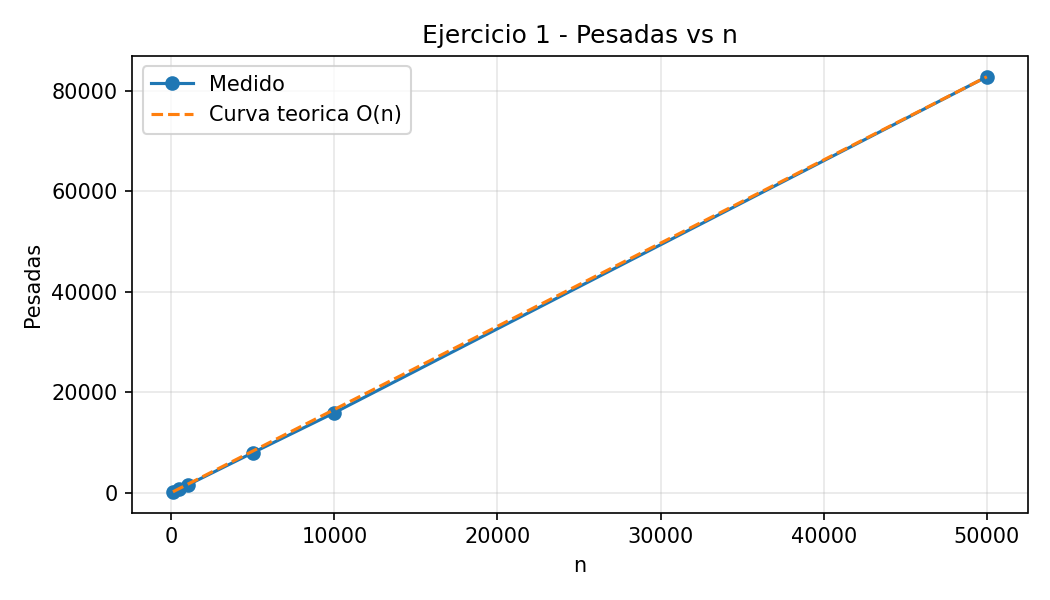
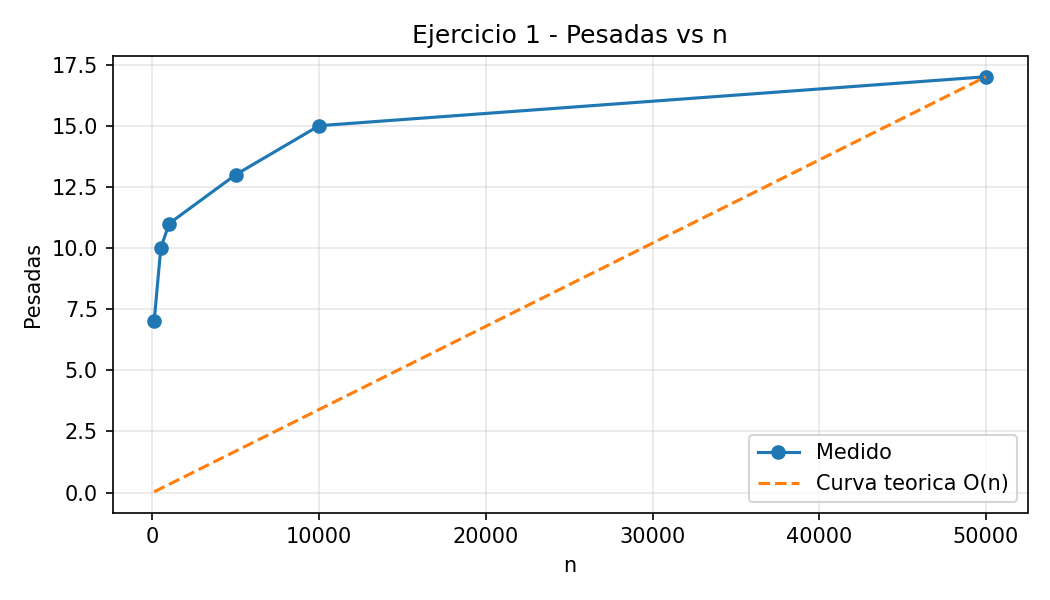
reemplazo codigo por pseudo, corrijo ej1 en informe

diff --git a/informe/tex/dyc/solucion.tex b/informe/tex/dyc/solucion.tex
@@ -3,26 +3,36 @@
 \subsection{Problema a resolver}
 
 Se tiene una bolsa con $n$ monedas de igual denominación, de las cuales exactamente una es falsa y es más liviana que el resto. 
-El objetivo es identificar la moneda falsa sin ordenar por peso y usando División y Conquista.
+El objetivo es identificar la moneda falsa sin ordenar por peso y haciendo uso de División y Conquista.
 
 \subsection{Algoritmo de División y Conquista}
 
 La entrada del algoritmo es una lista de monedas representadas por su peso. Se asume que todos los pesos son iguales, a
-excepción del peso de la moneda falsa.
+excepción del peso de la moneda falsa, es decir: $[a, b, b, b, b, b, b]$
 
-El algoritmo divide la lista en dos. En cada paso compara las monedas de las posiciones centrales:
+En cada paso el algoritmo parte entrada en dos (a la lista) y calcula el promedio de cada parte.
 
 \begin{enumerate}
-	\item Si las dos monedas centrales son distintas, la más liviana es la falsa.
-	\item Si son iguales, se llama recursivamente a las dos partes y se repite el algoritmo.
+	\item Si el promedio izquierdo es menor al promedio derecho se vuelve a llamar al algoritmo pero usando a la parte
+	izquierda lista.
+	\item Si el promedio derecho es menor al promedio izquierdo se vuelve a llamar al algoritmo pero usando a la parte
+	derecha lista
 \end{enumerate}
 
-La cantidad de pesadas se contabiliza con cada comparación entre dos monedas, representando la cantidad de veces que se pesan
-dos monedas hasta conseguir la falsa.
+- Casos base:
 
-El código del algoritmo implementado para resolver el problema es:
+1. Si la lista es de longitud uno, se retorna como moneda a su único elemento.
 
-\lstinputlisting[language=Python]{code/monedas_dyc.py}
+2. Si la lista es de longitud dos se debe devolver la moneda de menor pesos entre los dos elementos.
+
+- Pesadas en el algoritmo:
+
+Las pesadas son las veces que se pesan monedas para encontrar a la moneda falsa. En el algoritmo se pesan las monedas cada
+vez que se calculan los promedios de cada una de las partes, y cuando la longitud de la lista de monedas es uno o dos.
+
+- Solución:
+
+\lstinputlisting[]{code/monedas.txt}
 
 \subsection{Complejidad temporal y cantidad de pesadas}
 
@@ -31,12 +41,13 @@ recurrencia del mismo:
 
 $T(n) = A.T(n/B) + O(n^{C})$
 
-Donde, $A = 2$ debido a que se hacen dos llamadas recursivas en cada paso, $B = 2$ porque en cada paso el algoritmo parte el
-problema en dos, y $C = 0$ porque los costos adicionales incurridos en cada paso son $O(1)$.
+Donde, $A = 1$ debido a que se hacen dos llamadas recursivas en cada paso, $B = 2$ porque en cada paso el algoritmo parte el
+problema en dos, y $C = 1$ porque los costos adicionales incurridos en cada paso vienen del calculo del promedio, el cual
+es $O(n)$.
 
 La ecuación de recurrencia resultante es:
 
-$T(n) = 2T(n/2) + O(1)$
+$T(n) = 1T(n/2) + O(n)$
 
 Por el teorema maestro, la complejidad del algoritmo es: $O(n)$
 
@@ -76,5 +87,5 @@ superponerla con la curva empírica obtenida a partir de la ejecución del algor
 \subsection{Relación entre tiempo de ejecución y pesadas}
 
 Es razonable vincular el tiempo de ejecución del algoritmo con la cantidad de pesadas debido a que cada paso del algoritmo implica realizar una 
-cantidad constante de pesadas, y  el algoritmo tiene un crecimiento lineal, por lo tanto la cantidad de pesadas crece de forma proporcional al algoritmo,
+cantidad constante de pesadas, y  el algoritmo tiene un crecimiento lineal, por lo tanto, la cantidad de pesadas crece de forma proporcional al algoritmo,
 es decir, linealmente ($O(n)$).

diff --git a/informe/resultados/resultados_ej1.tex b/informe/resultados/resultados_ej1.tex
@@ -4,12 +4,12 @@
     \hline
     $n$ & Tiempo (s) & Pesadas \\
     \hline
-    100 & 0.000021 & 160 \\
-    500 & 0.000080 & 746 \\
-    1000 & 0.000162 & 1507 \\
-    5000 & 0.000904 & 7945 \\
-    10000 & 0.001782 & 15900 \\
-    50000 & 0.010770 & 82764 \\
+    100 & 0.000057 & 7 \\
+    500 & 0.000096 & 10 \\
+    1000 & 0.000076 & 11 \\
+    5000 & 0.000214 & 13 \\
+    10000 & 0.000358 & 15 \\
+    50000 & 0.001458 & 17 \\
     \hline
     \end{tabular}
     \caption{Resultados experimentales del ejercicio 1.}

diff --git a/ejercicios/graficos/ej1_graficos.py b/ejercicios/graficos/ej1_graficos.py
@@ -137,7 +137,7 @@ def main(argv):
         tiempos_teo,
         "Tiempo (s)",
         "Ejercicio 1 - Tiempo vs n",
-    )
+    )                       
     graficar_series(
         img_dir / "ej1_pesadas.png",
         sizes,

diff --git a/informe/tex/greedy/solucion.tex b/informe/tex/greedy/solucion.tex
@@ -15,7 +15,7 @@ implementado con el siguiente código:
 
 Su traducción más literal a un lenguaje moderno (Python) es:
 
-\lstinputlisting[language=Python, caption={Algoritmo Paolo traducido}]{code/paolo.py}
+\lstinputlisting[]{code/paolo.txt}
 
 El algoritmo crea una matriz de adyacencia para representar al grafo, donde cada entrada $cost[i][j]$ almacena el costo de viajar desde el vértice
 $i$ al vértice $j$. Si un costo no se ingresa, se asume un valor predeterminado de 15000 (considerado infinito en este contexto). Luego, la matriz se

diff --git a/informe/tex/pd/solucion.tex b/informe/tex/pd/solucion.tex
@@ -84,7 +84,7 @@ de $0$ hasta $i$ (subproblemas del algoritmo).
 
 \subsubsection{Código en Python}
 
-\lstinputlisting[language=Python]{code/palindromo.py}
+\lstinputlisting[]{code/palindromo.txt}
 
 \subsection{Seguimiento de ejemplo}
 